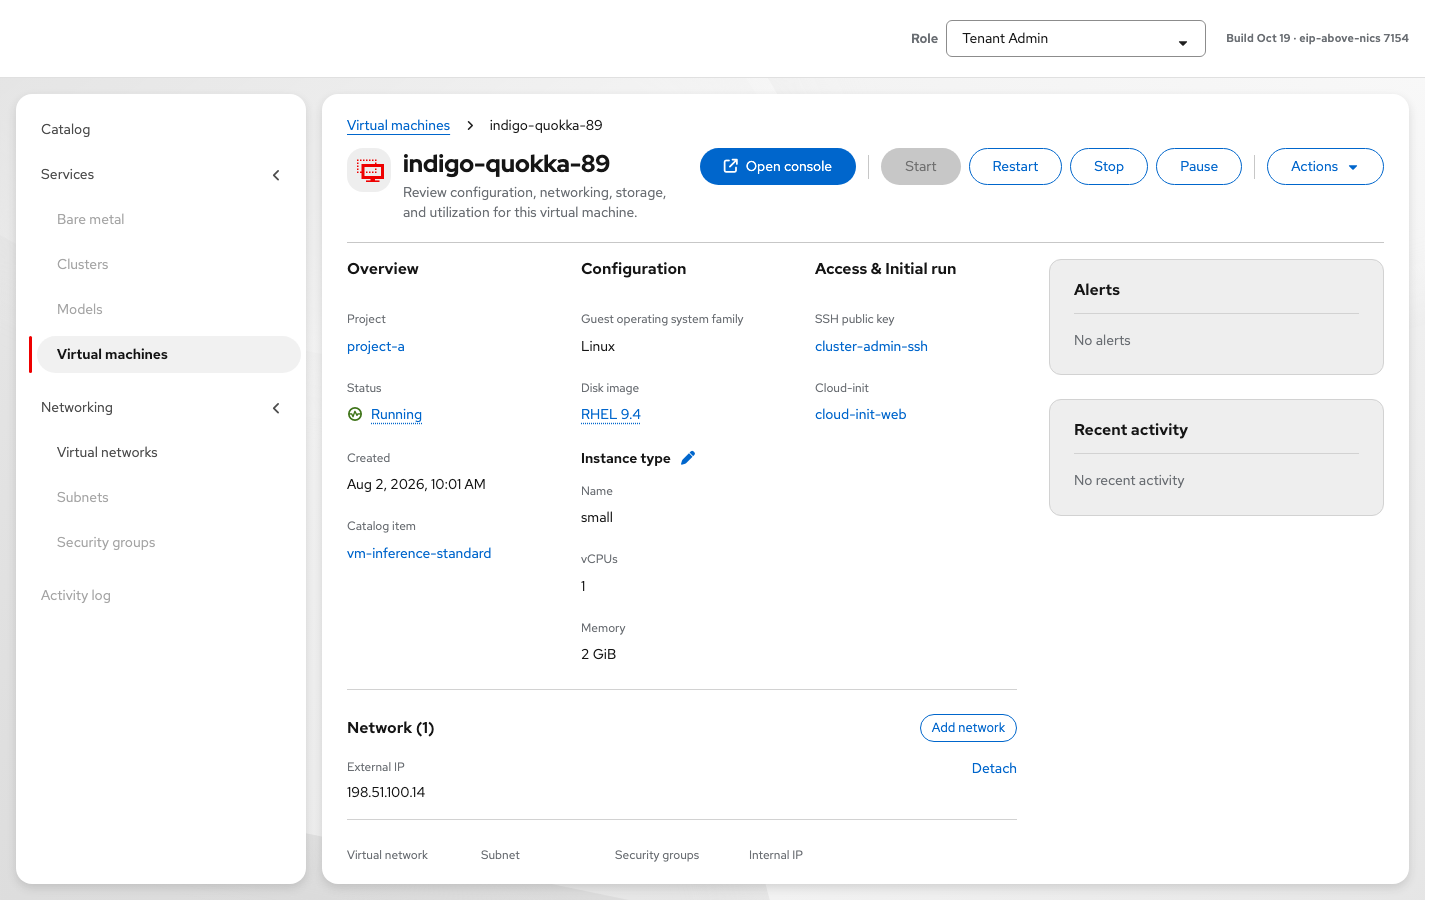
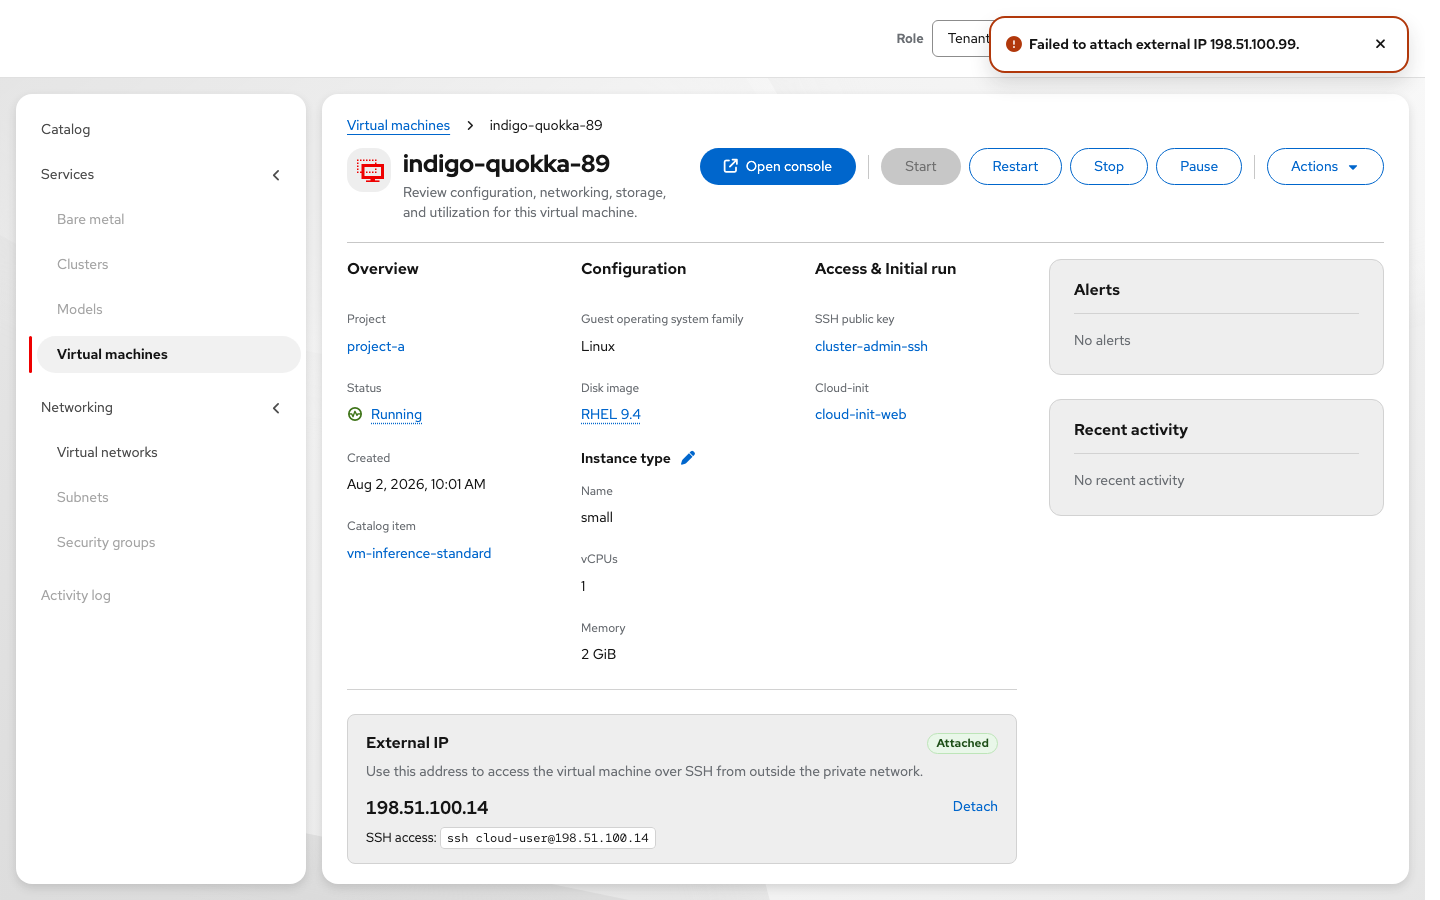
Narrow OSAC-2621 EIP access panel with attaching/failed states (build 7159).

diff --git a/vmaas-ux-prototype.html b/vmaas-ux-prototype.html
@@ -1533,6 +1533,120 @@
       font-size: 14px;
       color: var(--vmaas-text, #151515);
     }
+    /* OSAC-2621: External IP is primary SSH access — prominent panel above NICs */
+    .vm-external-ip-panel {
+      margin: 0 0 8px;
+      padding: 16px 18px;
+      border: 1px solid var(--vmaas-border-light, #d2d2d2);
+      border-radius: 8px;
+      background: var(--pf-t--global--background--color--secondary--default, #fafafa);
+    }
+    .vm-external-ip-panel__head {
+      display: flex;
+      align-items: center;
+      justify-content: space-between;
+      gap: 12px;
+      margin-bottom: 6px;
+    }
+    .vm-external-ip-panel__title {
+      margin: 0;
+      font-size: 1rem;
+      font-weight: 700;
+      color: var(--vmaas-text, #151515);
+    }
+    .vm-external-ip-panel__help {
+      margin: 0 0 14px;
+      font-size: 14px;
+      line-height: 1.45;
+      color: var(--vmaas-text-subtle, #6a6e73);
+    }
+    .vm-external-ip-panel__row {
+      display: flex;
+      align-items: flex-start;
+      justify-content: space-between;
+      gap: 16px;
+    }
+    .vm-external-ip-panel__value {
+      margin: 0;
+      font-size: 18px;
+      font-weight: 600;
+      line-height: 1.3;
+      color: var(--vmaas-text, #151515);
+      font-variant-numeric: tabular-nums;
+    }
+    .vm-external-ip-panel__value--muted {
+      font-weight: 500;
+      font-size: 16px;
+      color: var(--vmaas-text-subtle, #6a6e73);
+    }
+    .vm-external-ip-panel__ssh {
+      margin: 10px 0 0;
+      font-size: 13px;
+      line-height: 1.4;
+      color: var(--vmaas-text, #151515);
+    }
+    .vm-external-ip-panel__ssh code {
+      font-size: 12px;
+      padding: 2px 6px;
+      border-radius: 4px;
+      background: #fff;
+      border: 1px solid var(--vmaas-border-light, #d2d2d2);
+    }
+    .vm-external-ip-panel__error {
+      margin: 8px 0 0;
+      font-size: 13px;
+      color: var(--pf-t--global--color--status--danger--default, #c9190b);
+    }
+    .vm-external-ip-panel__actions {
+      display: flex;
+      flex-wrap: wrap;
+      gap: 8px;
+      align-items: center;
+      flex-shrink: 0;
+    }
+    .vm-external-ip-panel__status {
+      display: inline-flex;
+      align-items: center;
+      gap: 6px;
+      font-size: 12px;
+      font-weight: 600;
+      line-height: 1.2;
+      padding: 2px 8px;
+      border-radius: 999px;
+      border: 1px solid transparent;
+    }
+    .vm-external-ip-panel__status--none {
+      color: var(--vmaas-text-subtle, #6a6e73);
+      background: #fff;
+      border-color: var(--vmaas-border-light, #d2d2d2);
+    }
+    .vm-external-ip-panel__status--attaching {
+      color: #002952;
+      background: #e0f0ff;
+      border-color: #bee1f4;
+    }
+    .vm-external-ip-panel__status--attached {
+      color: #1e4f18;
+      background: #e9f7e9;
+      border-color: #bde5b8;
+    }
+    .vm-external-ip-panel__status--failed {
+      color: #5f2120;
+      background: #faeae8;
+      border-color: #f5c2c0;
+    }
+    .vm-external-ip-panel__spinner {
+      display: inline-block;
+      width: 12px;
+      height: 12px;
+      border: 2px solid currentColor;
+      border-right-color: transparent;
+      border-radius: 50%;
+      animation: vm-eip-spin 0.7s linear infinite;
+    }
+    @keyframes vm-eip-spin {
+      to { transform: rotate(360deg); }
+    }
     .rich-select__menu-footer {
       flex-shrink: 0;
       padding: 8px 12px;
@@ -6954,7 +7068,7 @@
               <span class="pf-v6-c-form-control__toggle-icon"><svg viewBox="0 0 320 512" aria-hidden="true" focusable="false"><path d="M31.3 192h257.3c17.8 0 26.7 21.5 14.1 34.1L174.1 354.8c-7.8 7.8-20.5 7.8-28.3 0L17.2 226.1C4.6 213.5 13.5 192 31.3 192z"/></svg></span>
             </span>
           </span>
-          <span class="prototype-build-tag" id="prototype-build-tag">Build Oct 19 · restart-aggregate 7158</span>
+          <span class="prototype-build-tag" id="prototype-build-tag">Build Oct 19 · eip-access-states 7159</span>
         </div>
       </div>
       <div class="console__body">
@@ -8101,9 +8215,11 @@
       { address: '198.51.100.14', pool: 'edge-public-a', status: 'in-use', vm: 'indigo-quokka-89' },
       { address: '198.51.100.21', pool: 'edge-public-a', status: 'available', vm: '' },
       { address: '198.51.100.37', pool: 'edge-public-a', status: 'available', vm: '' },
+      { address: '198.51.100.99', pool: 'edge-public-a', status: 'available', vm: '', demoFail: true },
       { address: '203.0.113.18', pool: 'edge-public-b', status: 'available', vm: '' },
       { address: '203.0.113.44', pool: 'edge-public-b', status: 'available', vm: '' },
     ];
+    const EXTERNAL_IP_ATTACH_DEMO_MS = 1400;
 
     function availableExternalIps() {
       return EXTERNAL_IP_POOL.filter(ip => ip.status === 'available');
@@ -8157,6 +8273,7 @@
         internalIp: '10.130.1.191',
         internalIpAttached: true,
         externalIpAttached: true,
+        externalIpStatus: 'attached',
         externalIp: '198.51.100.14',
         guestAgent: true,
         osFull: 'Red Hat Enterprise Linux 9.5',
@@ -14349,11 +14466,20 @@
       const name = state.selectedVmName;
       const vm = VMS.find(v => v.name === name);
       if (!vm) return;
-      if (kind === 'external') {
-        if (vm.externalIpAttached) {
+      if (kind === 'external' || kind === 'external-retry') {
+        if (vmExternalIpStatus(vm) === 'attaching') return;
+        if (kind === 'external-retry' && vm.externalIpPending) {
+          const row = EXTERNAL_IP_POOL.find(ip => ip.address === vm.externalIpPending);
+          beginAttachExternalIp(vm, vm.externalIpPending, !!row?.demoFail);
+          return;
+        }
+        if (vmExternalIpStatus(vm) === 'attached' || vm.externalIpAttached) {
           releaseExternalIp(vm.externalIp);
           vm.externalIpAttached = false;
           vm.externalIp = '';
+          vm.externalIpStatus = 'none';
+          vm.externalIpPending = '';
+          vm.externalIpError = '';
           vm.autoAttachExternalIp = false;
           toast('External IP detached.');
           renderVmDetail();
@@ -14377,6 +14503,120 @@
         }
       }
       renderVmDetail();
+    }
+
+    function vmExternalIpStatus(vm) {
+      if (!vm) return 'none';
+      if (vm.externalIpStatus === 'attaching' || vm.externalIpStatus === 'failed' || vm.externalIpStatus === 'attached') {
+        return vm.externalIpStatus;
+      }
+      if (vm.externalIpAttached && vm.externalIp) return 'attached';
+      return 'none';
+    }
+
+    function beginAttachExternalIp(vm, address, simulateFail = false) {
+      if (!vm || !address) return;
+      if (vm._extIpAttachTimer) {
+        clearTimeout(vm._extIpAttachTimer);
+        vm._extIpAttachTimer = null;
+      }
+      vm.externalIpStatus = 'attaching';
+      vm.externalIpPending = address;
+      vm.externalIpError = '';
+      vm.externalIpAttached = false;
+      closeAttachExternalIpModal();
+      renderVmDetail();
+      toast(`Attaching external IP ${address}…`);
+      vm._extIpAttachTimer = setTimeout(() => {
+        vm._extIpAttachTimer = null;
+        if (simulateFail) {
+          vm.externalIpStatus = 'failed';
+          vm.externalIpPending = address;
+          vm.externalIp = '';
+          vm.externalIpAttached = false;
+          vm.externalIpError = `Failed to attach ${address}. The address may no longer be available. Try again or choose another IP.`;
+          renderVmDetail();
+          toast(`Failed to attach external IP ${address}.`, 'danger');
+          return;
+        }
+        const allocated = allocateExternalIp(address, vm.name);
+        if (!allocated) {
+          vm.externalIpStatus = 'failed';
+          vm.externalIpPending = address;
+          vm.externalIp = '';
+          vm.externalIpAttached = false;
+          vm.externalIpError = `Failed to attach ${address}. The address is no longer available.`;
+          renderVmDetail();
+          toast(`Failed to attach external IP ${address}.`, 'danger');
+          return;
+        }
+        vm.externalIpStatus = 'attached';
+        vm.externalIpAttached = true;
+        vm.externalIp = allocated;
+        vm.externalIpPending = '';
+        vm.externalIpError = '';
+        renderVmDetail();
+        toast(`External IP ${allocated} attached.`, 'success');
+      }, EXTERNAL_IP_ATTACH_DEMO_MS);
+    }
+
+    function vmExternalIpPanelHtml(vm, { canEdit = true } = {}) {
+      const status = vmExternalIpStatus(vm);
+      const attachedIp = status === 'attached' && vm.externalIp ? String(vm.externalIp) : '';
+      const pendingIp = vm.externalIpPending ? String(vm.externalIpPending) : '';
+      const statusMeta = {
+        none: { mod: 'none', label: 'Not attached' },
+        attaching: { mod: 'attaching', label: 'Attaching' },
+        attached: { mod: 'attached', label: 'Attached' },
+        failed: { mod: 'failed', label: 'Failed' },
+      }[status] || { mod: 'none', label: 'Not attached' };
+      let valueHtml = '<p class="vm-external-ip-panel__value vm-external-ip-panel__value--muted">—</p>';
+      if (status === 'attaching') {
+        valueHtml = `<p class="vm-external-ip-panel__value">${pendingIp.replace(/</g, '&lt;') || '—'}</p>`;
+      } else if (status === 'attached') {
+        valueHtml = `<p class="vm-external-ip-panel__value">${attachedIp.replace(/</g, '&lt;')}</p>`;
+      } else if (status === 'failed') {
+        valueHtml = `<p class="vm-external-ip-panel__value vm-external-ip-panel__value--muted">${(pendingIp || '—').replace(/</g, '&lt;')}</p>`;
+      }
+      const sshHtml = status === 'attached' && attachedIp
+        ? `<p class="vm-external-ip-panel__ssh">SSH access: <code>ssh cloud-user@${attachedIp.replace(/</g, '&lt;')}</code></p>`
+        : '';
+      const errHtml = status === 'failed' && vm.externalIpError
+        ? `<p class="vm-external-ip-panel__error" role="alert">${String(vm.externalIpError).replace(/</g, '&lt;')}</p>`
+        : '';
+      let actions = '';
+      if (!canEdit) {
+        actions = `<span class="muted">No configuration edits for this role</span>`;
+      } else if (status === 'attaching') {
+        actions = `<button type="button" class="pf-v6-c-button pf-m-link" disabled>Attaching…</button>`;
+      } else if (status === 'attached') {
+        actions = `<button type="button" class="name-link" data-ip-toggle="external">Detach</button>`;
+      } else if (status === 'failed') {
+        actions = `
+          <button type="button" class="pf-v6-c-button pf-m-secondary pf-m-small" data-ip-toggle="external-retry">Retry</button>
+          <button type="button" class="name-link" data-ip-toggle="external">Choose another</button>`;
+      } else {
+        actions = `<button type="button" class="pf-v6-c-button pf-m-secondary pf-m-small" data-ip-toggle="external">Attach external IP</button>`;
+      }
+      return `
+        <section class="vm-external-ip-panel" aria-labelledby="vm-eip-title">
+          <div class="vm-external-ip-panel__head">
+            <h3 class="vm-external-ip-panel__title" id="vm-eip-title">External IP</h3>
+            <span class="vm-external-ip-panel__status vm-external-ip-panel__status--${statusMeta.mod}">
+              ${status === 'attaching' ? '<span class="vm-external-ip-panel__spinner" aria-hidden="true"></span>' : ''}
+              ${statusMeta.label}
+            </span>
+          </div>
+          <p class="vm-external-ip-panel__help">Use this address to access the virtual machine over SSH from outside the private network.</p>
+          <div class="vm-external-ip-panel__row">
+            <div>
+              ${valueHtml}
+              ${sshHtml}
+              ${errHtml}
+            </div>
+            <div class="vm-external-ip-panel__actions">${actions}</div>
+          </div>
+        </section>`;
     }
 
     function openAttachExternalIpModal() {
@@ -14429,9 +14669,12 @@
             options: available.map(ip => ({
               id: ip.address,
               title: ip.address,
-              desc: `Pool ${ip.pool}`,
+              desc: ip.demoFail
+                ? `Pool ${ip.pool} · Demo: simulate attach failure`
+                : `Pool ${ip.pool}`,
             })),
           })}
+          ${pfHelperText('External IP is how you reach this VM over SSH from outside the private network.')}
         </div>
       `;
       footer.innerHTML = `
@@ -14467,16 +14710,13 @@
       footer.querySelector('#extip-modal-cancel')?.addEventListener('click', closeAttachExternalIpModal);
       footer.querySelector('#extip-modal-attach')?.addEventListener('click', () => {
         const vm = VMS.find(v => v.name === state.selectedVmName);
-        const address = allocateExternalIp(m.selected, state.selectedVmName);
-        if (!vm || !address) {
+        const selected = m.selected;
+        const poolRow = EXTERNAL_IP_POOL.find(ip => ip.address === selected);
+        if (!vm || !selected || !poolRow || poolRow.status !== 'available') {
           toast('Select an available external IP.');
           return;
         }
-        vm.externalIpAttached = true;
-        vm.externalIp = address;
-        closeAttachExternalIpModal();
-        renderVmDetail();
-        toast(`External IP ${address} attached.`, 'success');
+        beginAttachExternalIp(vm, selected, !!poolRow.demoFail);
       });
       focusRichSelectField(focusId);
     }
@@ -16075,20 +16315,14 @@
               </div>
             </section>
             <hr class="vm-overview-v2__divider" aria-hidden="true" />
+            <section class="vm-overview-v2__section" aria-labelledby="vm-eip-title">
+              ${vmExternalIpPanelHtml(v, { canEdit: canEditConfig })}
+            </section>
             <section class="vm-overview-v2__section" aria-labelledby="vm-network-title">
               <div class="vm-overview-v2__section-head">
                 <h3 class="ethan-detail-col__title" id="vm-network-title">Network (${nics.length})</h3>
                     <button type="button" class="pf-v6-c-button pf-m-secondary pf-m-small" id="btn-overview-add-net"${addDisabledAttrs}>Add network</button>
                   </div>
-              <div class="vm-network-external">
-                <div>
-                  <p class="vm-network-external__label">External IP</p>
-                  <p class="vm-network-external__value">${v.externalIpAttached && v.externalIp ? String(v.externalIp).replace(/</g, '&lt;') : '—'}</p>
-                </div>
-                <button type="button" class="name-link" data-ip-toggle="external"${canEditConfig ? '' : ' disabled title="No configuration edits for this role"'}>
-                  ${v.externalIpAttached ? 'Detach' : 'Attach'}
-                </button>
-              </div>
               <div class="vm-overview__table-wrap">
                 <table class="overview-table overview-table--network" aria-label="Networks">
                   <colgroup>
